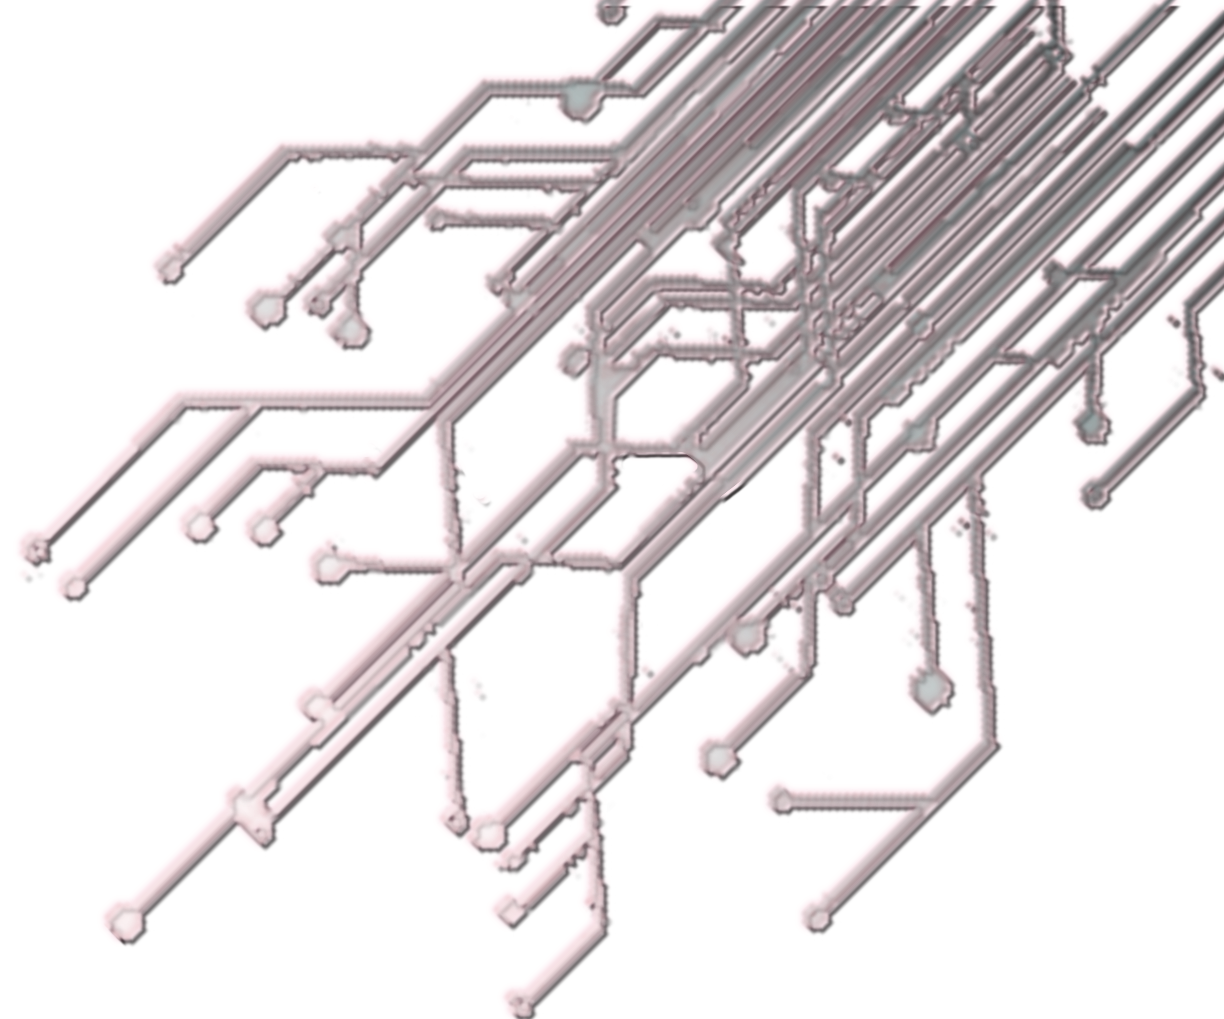
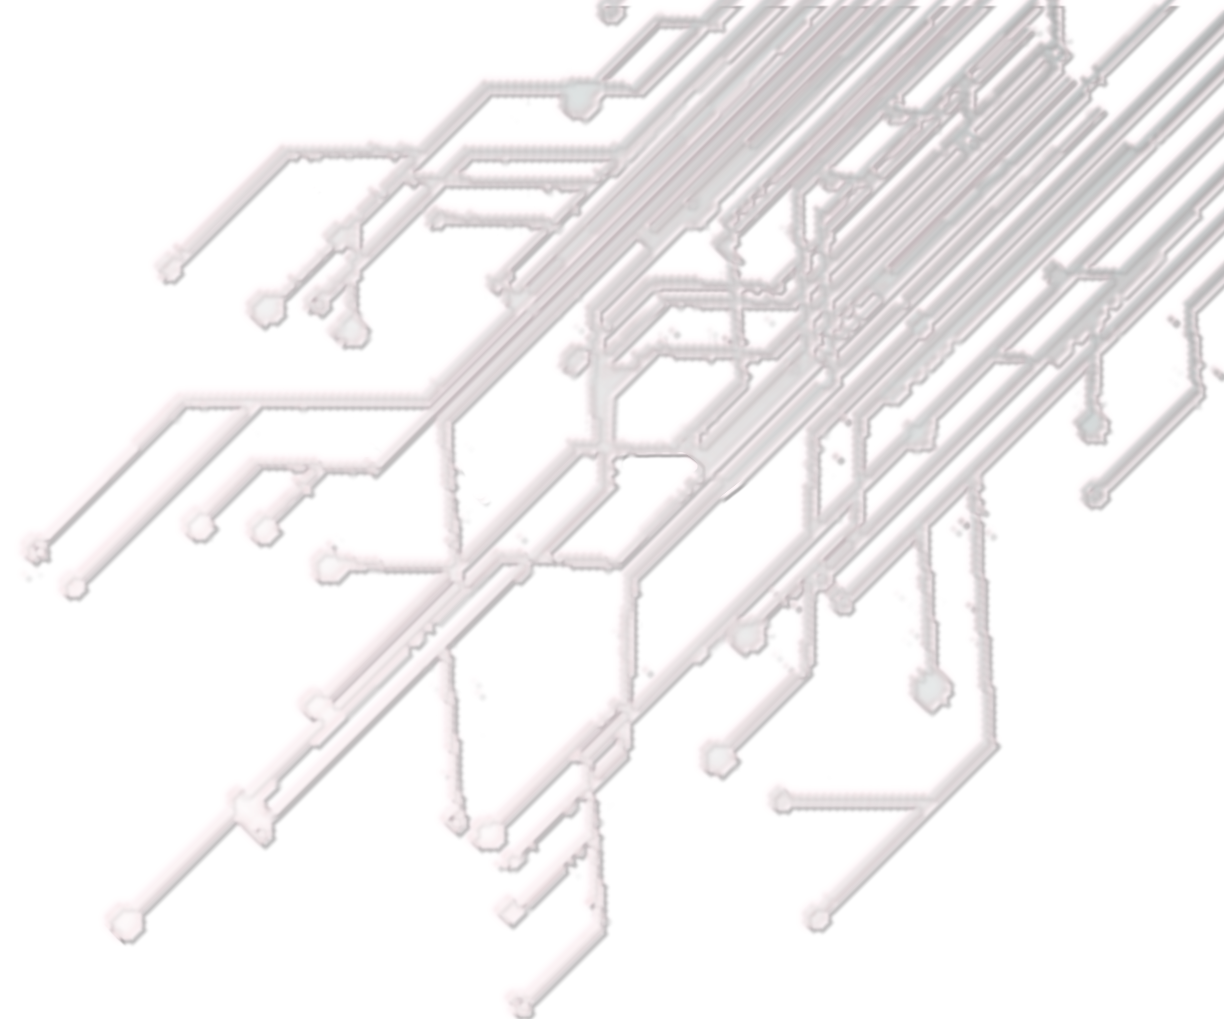
css is hard

diff --git a/src/components/Landing.js b/src/components/Landing.js
@@ -10,7 +10,8 @@ import Button from '@material-ui/core/Button';
 import Divider from '@material-ui/core/Divider';
 import Strype from '../images/stripe.png';
 import post1 from '../blog-post.1.md';
-import Reach from '../images/reach.png'
+import Reach from '../images/reach.png';
+import Monika from '../images/just_monika.png';
 import Footer from "./Footer";
 import JumboTron from "./JumboTron";
 import ProjectCard from "./ProjectCard";
@@ -59,6 +60,7 @@ const featuredProjects = [
     exerpt:
       'This is a wider card with supporting text below as a natural lead-in to additional content.',
     reach: Reach,
+    displayImage: Monika,
     descriptions: ["aoeuaoeu","aoeuaoeuaoeuauoeuaoetsuhsaoetu hsato ehsaot e", "aosetuh lacoebu satoeuhs aoeunsstah satoenshu "],
   },
   {
@@ -67,6 +69,7 @@ const featuredProjects = [
     exerpt:
       'This is a wider card with supporting text below as a natural lead-in to additional content.',
     reach: Reach,
+    displayImage: Monika,
     descriptions: ["aoeuaoeu","aoeuaoeuaoeuauoeuaoetsuhsaoetu hsato ehsaot e", "aosetuh lacoebu satoeuhs aoeunsstah satoenshu "],
   },
   {
@@ -75,6 +78,7 @@ const featuredProjects = [
     exerpt:
       'This is a wider card with supporting text below as a natural lead-in to additional content.',
     reach: Reach,
+    displayImage: Monika,
     descriptions: ["aoeuaoeu","aoeuaoeuaoeuauoeuaoetsuhsaoetu hsato ehsaot e", "aosetuh lacoebu satoeuhs aoeunsstah satoenshu "],
   },
   {
@@ -83,6 +87,7 @@ const featuredProjects = [
     exerpt:
       'This is a wider card with supporting text below as a natural lead-in to additional content.',
     reach: Reach,
+    displayImage: Monika,
     descriptions: ["aoeuaoeu","aoeuaoeuaoeuauoeuaoetsuhsaoetu hsato ehsaot e", "aosetuh lacoebu satoeuhs aoeunsstah satoenshu "],
   },
   {
@@ -91,6 +96,7 @@ const featuredProjects = [
     exerpt:
       'This is a wider card with supporting text below as a natural lead-in to additional content.',
     reach: Reach,
+    displayImage: Monika,
     descriptions: ["aoeuaoeu","aoeuaoeuaoeuauoeuaoetsuhsaoetu hsato ehsaot e", "aosetuh lacoebu satoeuhs aoeunsstah satoenshu "],
   },
 ];

diff --git a/src/components/ProjectCard.js b/src/components/ProjectCard.js
@@ -18,14 +18,17 @@ import ExpandMoreIcon from '@material-ui/icons/ExpandMore';
 import MoreVertIcon from '@material-ui/icons/MoreVert';
 import GridList from "@material-ui/core/es/GridList/GridList";
 import Button from "@material-ui/core/es/Button/Button";
+import Circuit from '../images/circuit.png';
 
 const styles = theme => ({
   card: {
+    background: `url(${Circuit}) white no-repeat`,
+    backgroundPosition: 'top right',
+    backgroundSize: '50% 50%',
     maxWidth: 550,
   },
   media: {
     height: 0,
-    paddingTop: '76.25%', // 16:9
   },
   actions: {
     display: 'flex',
@@ -46,7 +49,6 @@ const styles = theme => ({
   avatar: {
     backgroundColor: red[50],
     width: 60,
-    alignContent: 'center',
     height: 60,
   },
 });
@@ -81,7 +83,7 @@ class ProjectCard extends React.Component<Props> {
             </div>
             <CardMedia
               className={classes.media}
-              image={project.reach}
+              image={project.displayImage}
               title={project.title}
             />
           </GridList>
